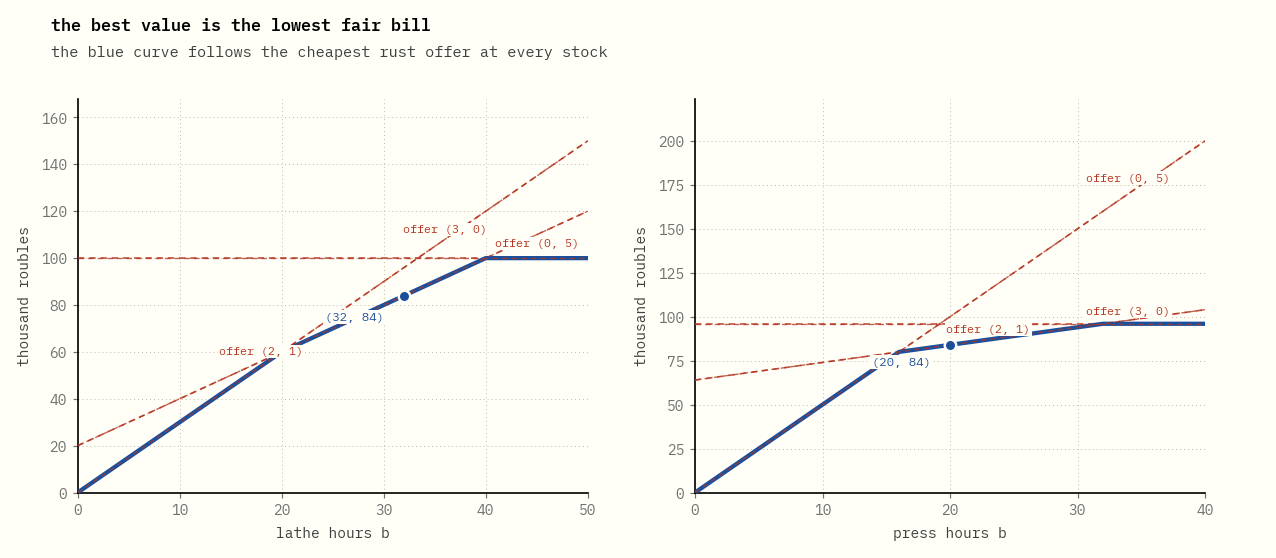
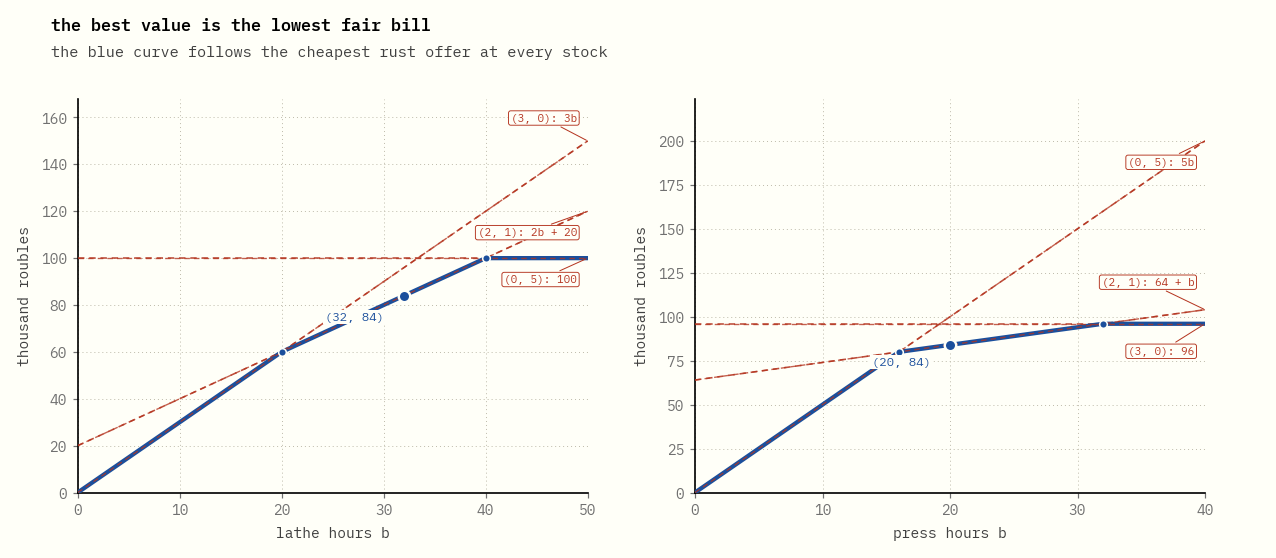
linear-programming: chapter 7 figure labels

diff --git a/linear-programming/figures/fig07b_value_curves.py b/linear-programming/figures/fig07b_value_curves.py
@@ -1,5 +1,6 @@
 """The mill's best value is the lower envelope of fair-offer bills."""
 
+from dataclasses import dataclass
 from fractions import Fraction
 from itertools import combinations
 
@@ -7,9 +8,26 @@ from illuminate.draw import (HAIRLINE, PLAN, PRICE, SURFACE, TEXT_DIM,
                              chapter_dir, figure, save)
 from linprog import mill as f
 from linprog.lp import best_by_enumeration, solve_square
-from scene import claim
+
+if __package__:
+    from .scene import claim
+else:
+    from scene import claim
 
 OUT = chapter_dir("07-one-more")
+
+
+@dataclass(frozen=True)
+class OfferLine:
+    offer: tuple[Fraction, ...]
+    slope: Fraction
+    intercept: Fraction
+    formula: str
+    anchor: tuple[Fraction, Fraction]
+
+    @property
+    def label(self):
+        return f"({self.offer[0]}, {self.offer[1]}): {self.formula}"
 
 
 def fair_offer_corners():
@@ -40,22 +58,74 @@ def stock_lp(axis, b):
     return f.MILL.with_b(stock)
 
 
-def bill(offer, stock):
-    return sum((offer[i] * stock[i] for i in range(f.MILL.m)), Fraction(0))
+def formula_text(axis, slope, intercept):
+    if slope == 0:
+        return str(intercept)
+    term = "b" if slope == 1 else f"{slope}b"
+    if intercept == 0:
+        return term
+    if axis == 0:
+        return f"{term} + {intercept}"
+    return f"{intercept} + {term}"
 
 
-def panel(ax, axis, maximum, offers, sample):
+def offer_line_table(axis, maximum, offers):
+    lines = []
+    for offer in offers:
+        slope = Fraction(offer[axis])
+        intercept = Fraction(offer[1 - axis] * f.MILL.b[1 - axis])
+        anchor_x = Fraction(maximum)
+        lines.append(OfferLine(
+            offer=tuple(offer),
+            slope=slope,
+            intercept=intercept,
+            formula=formula_text(axis, slope, intercept),
+            anchor=(anchor_x, slope * anchor_x + intercept),
+        ))
+    return tuple(lines)
+
+
+def envelope_bends(lines, maximum):
+    bends = set()
+    for first, second in combinations(lines, 2):
+        if first.slope == second.slope:
+            continue
+        stock = (second.intercept - first.intercept) / (
+            first.slope - second.slope
+        )
+        if not 0 <= stock <= maximum:
+            continue
+        value = first.slope * stock + first.intercept
+        if value == min(line.slope * stock + line.intercept
+                        for line in lines):
+            bends.add((stock, value))
+    return tuple(sorted(bends))
+
+
+LABEL_OFFSETS = {
+    0: {
+        (3, 0): (-7, 15),
+        (2, 1): (-7, -14),
+        (0, 5): (-7, -14),
+    },
+    1: {
+        (0, 5): (-7, -14),
+        (2, 1): (-7, 18),
+        (3, 0): (-7, -18),
+    },
+}
+
+
+def panel(ax, axis, maximum, lines, sample):
     values = [
         best_by_enumeration(stock_lp(axis, b))[1]
         for b in range(maximum + 1)
     ]
-    stocks = [list(f.MILL.b) for _ in range(maximum + 1)]
-    for b, stock in enumerate(stocks):
-        stock[axis] = Fraction(b)
     x = list(range(maximum + 1))
 
     ax.set_xlim(0, maximum)
-    highest = max([values[-1]] + [bill(offer, stocks[-1]) for offer in offers])
+    highest = max([values[-1]] +
+                  [line.slope * maximum + line.intercept for line in lines])
     ax.set_ylim(0, float(highest) * 1.12)
     ax.set_xticks(range(0, maximum + 1, 10))
     ax.set_xlabel("lathe hours b" if axis == 0 else "press hours b",
@@ -68,16 +138,21 @@ def panel(ax, axis, maximum, offers, sample):
             linestyle=(0, (1, 3)), zorder=0)
     ax.set_axisbelow(True)
 
-    for offer in offers:
-        ax.plot(x, [float(bill(offer, stock)) for stock in stocks],
+    for line in lines:
+        ax.plot(x, [float(line.slope * b + line.intercept) for b in x],
                 color=PRICE, linewidth=1.05, dashes=(4, 3), alpha=0.88,
                 zorder=3)
     ax.plot(x, [float(value) for value in values], color=PLAN,
             linewidth=2.8, zorder=4)
-    for offer in offers:
-        ax.plot(x, [float(bill(offer, stock)) for stock in stocks],
+    for line in lines:
+        ax.plot(x, [float(line.slope * b + line.intercept) for b in x],
                 color=PRICE, linewidth=0.9, dashes=(4, 3), alpha=0.78,
                 zorder=5)
+
+    for bend, value in envelope_bends(lines, maximum):
+        ax.plot([float(bend)], [float(value)], "o", color=PLAN,
+                markeredgecolor=SURFACE, markeredgewidth=1.0,
+                markersize=5.0, zorder=7)
 
     b, value = sample
     ax.plot([float(b)], [float(value)], "o", color=PLAN,
@@ -89,18 +164,23 @@ def panel(ax, axis, maximum, offers, sample):
             bbox=dict(boxstyle="square,pad=0.15", facecolor=SURFACE,
                       edgecolor="none"))
 
-    if axis == 0:
-        offer_labels = ((offers[2], 36, 110), (offers[1], 18, 58),
-                        (offers[0], 45, 104))
-    else:
-        offer_labels = ((offers[0], 34, 176), (offers[1], 23, 90),
-                        (offers[2], 34, 100))
-    for offer, label_x, label_y in offer_labels:
-        ax.text(label_x, label_y, f"offer ({offer[0]}, {offer[1]})",
-                color=PRICE, fontsize=7.6, ha="center", va="bottom",
-                zorder=10,
-                bbox=dict(boxstyle="square,pad=0.14", facecolor=SURFACE,
-                          edgecolor="none"))
+    for line in lines:
+        ax.annotate(
+            line.label,
+            xy=tuple(float(value) for value in line.anchor),
+            xytext=LABEL_OFFSETS[axis][line.offer],
+            textcoords="offset points",
+            color=PRICE,
+            fontsize=7.2,
+            ha="right",
+            va="center",
+            bbox=dict(boxstyle="round,pad=0.2", facecolor=SURFACE,
+                      edgecolor=PRICE, linewidth=0.6),
+            arrowprops=dict(arrowstyle="-", color=PRICE, linewidth=0.65,
+                            shrinkA=2, shrinkB=1),
+            annotation_clip=False,
+            zorder=10,
+        )
 
 
 def value_curves():
@@ -116,8 +196,8 @@ def value_curves():
 
     left_sample = (Fraction(32), best_by_enumeration(stock_lp(0, 32))[1])
     right_sample = (Fraction(20), best_by_enumeration(stock_lp(1, 20))[1])
-    panel(left, 0, 50, offers, left_sample)
-    panel(right, 1, 40, offers, right_sample)
+    panel(left, 0, 50, offer_line_table(0, 50, offers), left_sample)
+    panel(right, 1, 40, offer_line_table(1, 40, offers), right_sample)
     return save(fig, OUT / "value_curves.png", tight=False)
 
 

diff --git a/linear-programming/figures/fig07a_lathe_slide.py b/linear-programming/figures/fig07a_lathe_slide.py
@@ -6,7 +6,7 @@ from illuminate.draw import (PLAN, PRICE, SURFACE, TEXT, TEXT_DIM, animate,
                              chapter_dir, figure, margin_note)
 from linprog import mill as f
 from linprog.lp import best_by_enumeration
-from scene import Stages, claim, draw_axes, draw_region, line_where
+from scene import Stages, claim, draw_axes, line_where, ordered
 
 OUT = chapter_dir("07-one-more")
 START = Fraction(16)
@@ -64,8 +64,6 @@ def lathe_slide():
         best_by_enumeration(lathe_lp(b))[0]
         for b in range(int(START), int(THIRD_BEND) + 1)
     ]
-    path_t = [float(point[0]) for point in path]
-    path_f = [float(point[1]) for point in path]
 
     def update(i):
         i = min(i, frames - 1)
@@ -82,25 +80,39 @@ def lathe_slide():
         draw_axes(ax)
         ax.set_ylim(0, 22)
         ax.set_yticks(range(0, 23, 4))
-        draw_region(ax, lp, alpha=0.08)
+        region = ordered(lp)
+        ax.fill([float(vertex[0]) for vertex in region],
+                [float(vertex[1]) for vertex in region],
+                color=TEXT_DIM, alpha=0.08, zorder=1, linewidth=0)
         line_where(ax, f.MILL.A[0], b, color=TEXT, linewidth=1.35, zorder=4)
         line_where(ax, f.MILL.A[1], f.MILL.b[1],
                    color=TEXT, linewidth=1.35, zorder=4)
-        ax.plot(path_t, path_f, color=PLAN, linewidth=1.8, alpha=0.68, zorder=5)
-        for knot in (path[4], path[16], path[24]):
+        trail_stock = min(b, THIRD_BEND)
+        trail = path[:int(trail_stock - START) + 1]
+        if trail_stock.denominator != 1:
+            trail.append(point)
+        ax.plot([float(vertex[0]) for vertex in trail],
+                [float(vertex[1]) for vertex in trail],
+                color=PLAN, linewidth=1.2, zorder=5,
+                solid_capstyle="round")
+        for stock, knot in ((FIRST_BEND, path[4]),
+                            (SECOND_BEND, path[16]),
+                            (THIRD_BEND, path[24])):
+            if b < stock:
+                continue
             ax.plot([float(knot[0])], [float(knot[1])], "o", color=PLAN,
                     markeredgecolor=SURFACE, markeredgewidth=1.2,
-                    markersize=6, zorder=7)
+                    markersize=5, zorder=7)
         ax.plot([float(point[0])], [float(point[1])], "o", color=PLAN,
                 markeredgecolor=SURFACE, markeredgewidth=1.8,
                 markersize=9, zorder=8)
 
         lathe_label_x = max(Fraction(2), min(Fraction(9), b - 36))
-        lathe_label_y = (b - lathe_label_x) / 2 - Fraction(4, 5)
+        lathe_label_y = (b - lathe_label_x) / 2 - Fraction(9, 2)
         ax.text(float(lathe_label_x), float(lathe_label_y), "lathe wall",
                 color=TEXT_DIM, fontsize=8.6, ha="left", va="top", zorder=9,
-                bbox=dict(boxstyle="square,pad=0.14", facecolor=SURFACE,
-                          edgecolor="none"))
+                bbox=dict(boxstyle="square,pad=0.18", facecolor=SURFACE,
+                          edgecolor=TEXT_DIM, linewidth=0.45))
         ax.text(0.6, 21.15, "press wall", color=TEXT_DIM, fontsize=8.6,
                 ha="left", va="center", zorder=9,
                 bbox=dict(boxstyle="square,pad=0.14", facecolor=SURFACE,

diff --git a/linear-programming/tests/test_shadow.py b/linear-programming/tests/test_shadow.py
@@ -9,6 +9,7 @@ from linprog import mill as f
 from linprog.lp import (LP, best_by_enumeration, dual_by_enumeration,
                         simplex, solve_square, vertices)
 from linprog.modeling import two_week_inventory
+from figures.fig07b_value_curves import fair_offer_corners, offer_line_table
 from test_formulation import complete_sets_lp
 
 ROOT = Path(__file__).resolve().parents[1]
@@ -151,6 +152,29 @@ def test_sample_bills_match_their_best_values():
     assert best_by_enumeration(lathe_lp(32))[1] == 84
     assert best_by_enumeration(lathe_lp(50))[1] == 100
     assert best_by_enumeration(press_lp(20))[1] == 84
+
+
+def test_value_curve_labels_anchor_to_their_own_bill_lines():
+    offers = fair_offer_corners()
+    expected = {
+        0: {
+            (Fraction(3), Fraction(0)): ("(3, 0): 3b", (50, 150)),
+            (Fraction(2), Fraction(1)): ("(2, 1): 2b + 20", (50, 120)),
+            (Fraction(0), Fraction(5)): ("(0, 5): 100", (50, 100)),
+        },
+        1: {
+            (Fraction(3), Fraction(0)): ("(3, 0): 96", (40, 96)),
+            (Fraction(2), Fraction(1)): ("(2, 1): 64 + b", (40, 104)),
+            (Fraction(0), Fraction(5)): ("(0, 5): 5b", (40, 200)),
+        },
+    }
+    for axis, maximum in ((0, 50), (1, 40)):
+        for line in offer_line_table(axis, maximum, offers):
+            label, anchor = expected[axis][line.offer]
+            assert line.label == label
+            assert line.anchor == tuple(Fraction(value) for value in anchor)
+            x, y = line.anchor
+            assert y == line.slope * x + line.intercept
 
 
 def test_complementary_slackness_examples_and_idle_resource_prices():
